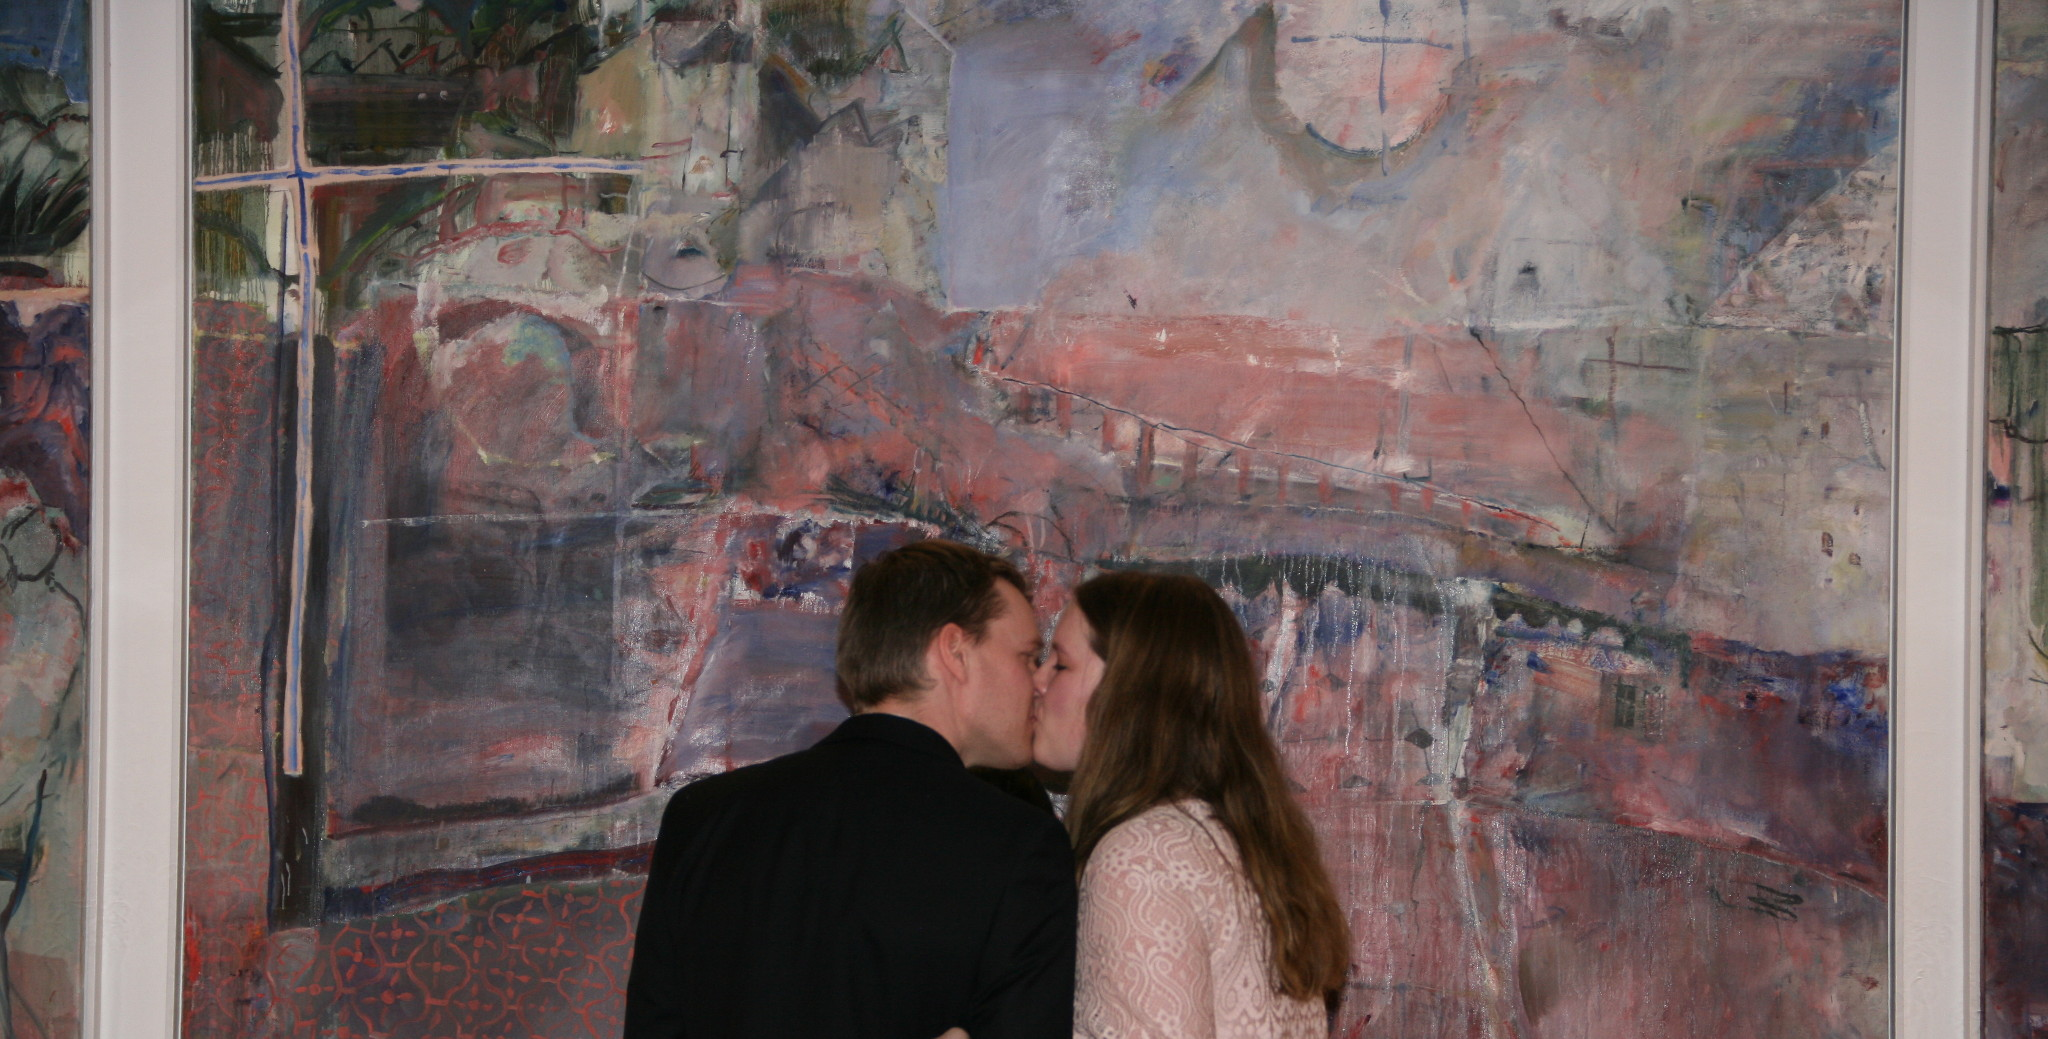
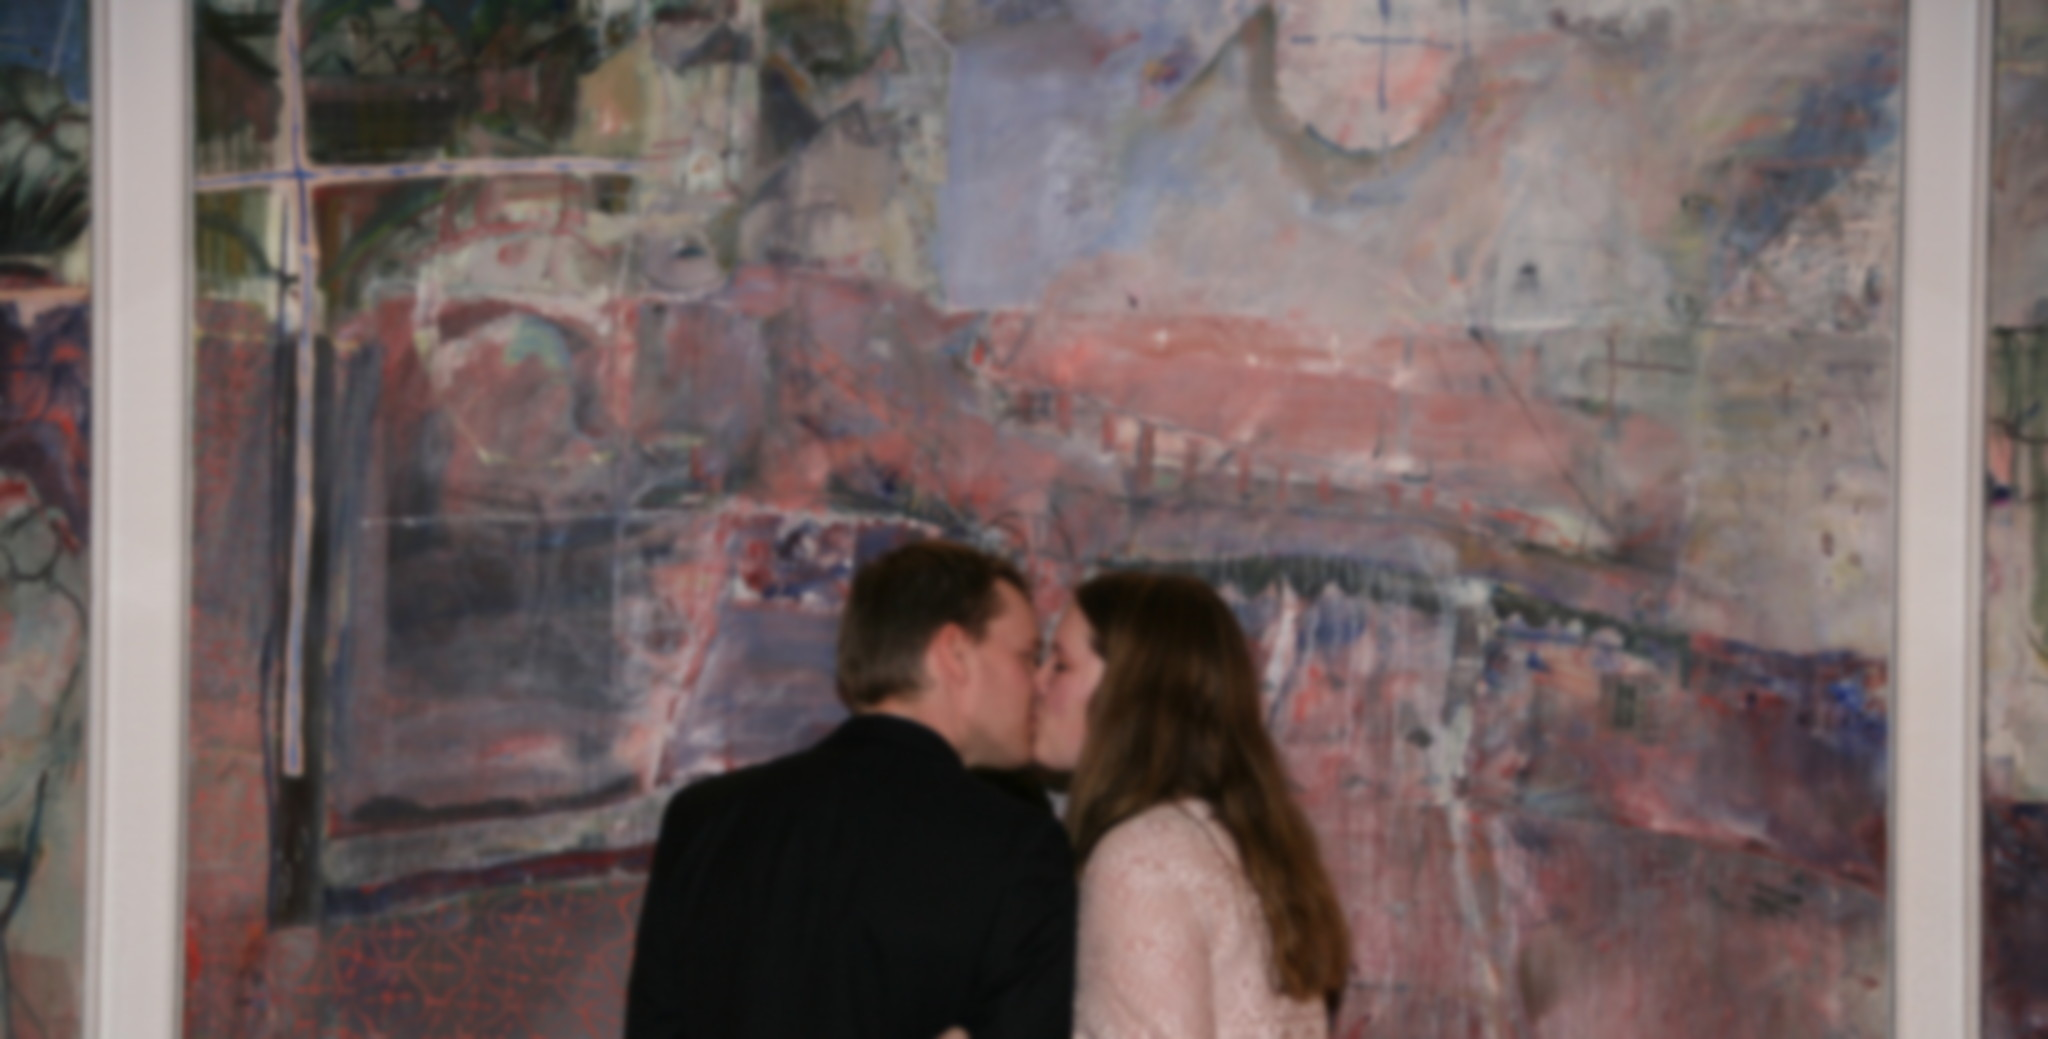
Blur bakgrunnsbilde info for enklere lesning

diff --git a/css/custom.css b/css/custom.css
@@ -63,7 +63,10 @@ a {
 /* Values
 –––––––––––––––––––––––––––––––––––––––––––––––––– */
 .values {
-  background-image: url('../tinghus1.jpg');
+  background-image: linear-gradient(
+      rgba(80, 0, 0, 0.5),
+      rgba(80, 0, 0, 0.5)
+    ), url('../tinghus1.jpg');
   background-size: cover;
   color: #fff;
   padding-bottom: 5rem;

diff --git a/index.html b/index.html
@@ -42,7 +42,7 @@
     </div>
   </div>
 
-  <div class="section values">
+  <div class="section values" id="info">
     <div class="container">
       <div class="row">
         <div class="one-third column value">
